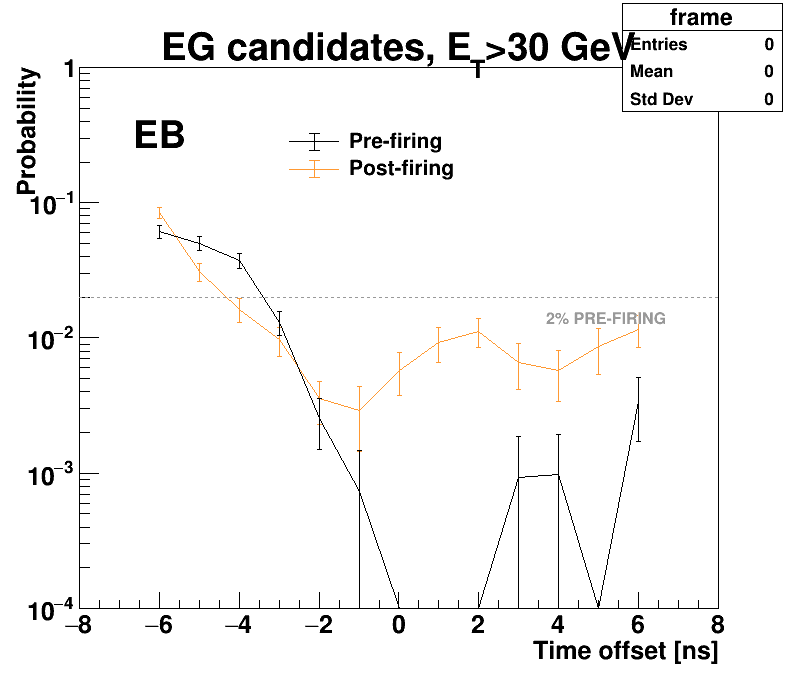
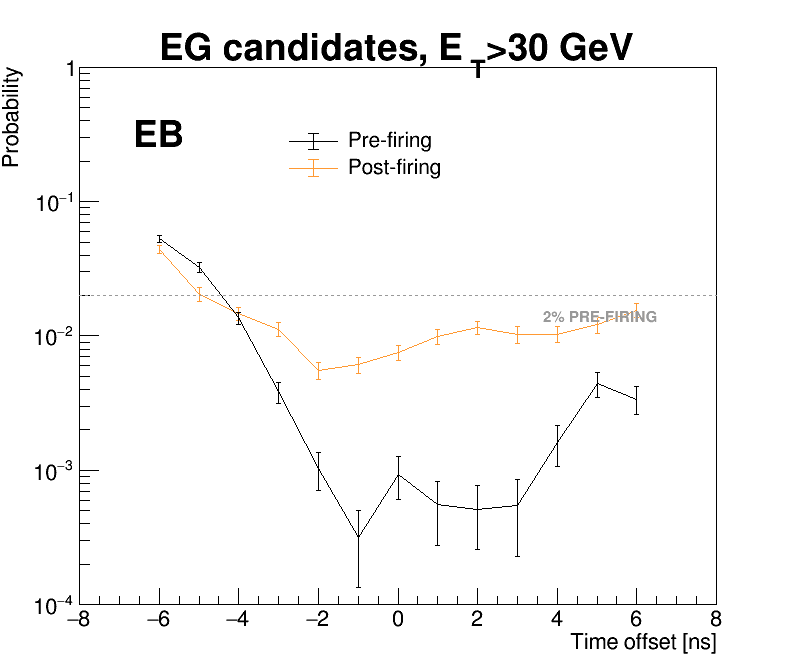
small fixes

diff --git a/ETTAnalyzer/Scan_files/FindScanFiles.py b/ETTAnalyzer/Scan_files/FindScanFiles.py
@@ -2,26 +2,26 @@ import os
 
 #Replace by importing a json?
 scan_delay = {              #run, first and last (included) LS
-    -6 : [366794, 0, 33],   #date: 29/04/23
-    -5 : [366794, 35, 63],
-    -4 : [366794, 66, 94],
-    -3 : [366794, 96, 125],
-    -2 : [366795, 0, 32],
-    -1 : [366795, 35, 62],
-    0 : [366795, 64, 97],
-    1 : [366797, 4, 32],
-    2 : [366797, 34, 68],
-    3 : [366798, 0, 25],
-    4 : [366798, 27, 52],
-    5 : [366798, 54, 75],
-    6 : [366798, 77, 111]
+    -6 : [369937, 51, 81],   #date: 29/04/23
+    -5 : [369937, 84, 105],
+    -4 : [369937, 107, 138],
+    -3 : [369937, 140, 171],
+    -2 : [369938, 1, 31],
+    -1 : [369938, 34, 66],
+    0 : [369938, 68, 99],
+    1 : [369938, 101, 125],
+    2 : [369938, 127, 153],
+    3 : [369942, 1, 21],
+    4 : [369942, 23, 42],
+    5 : [369942, 44, 64],
+    6 : [369942, 66, 86]
 }
 
-for i in range(-6, 7):
+for i in range(-6, -5):
     run, first_LS, last_LS = scan_delay[i]
     scan_file = 'Scan_delay_%s.txt'%(i)
     os.system('rm ' + scan_file)
     for ls in range(first_LS, last_LS + 1):
-        COMMAND = "dasgoclient --query='file dataset=/SpecialHLTPhysics0/Run2023B-v1/RAW run=%s lumi=%s' >> "%(run, ls) + scan_file
+        COMMAND = "dasgoclient --query='file dataset=/SpecialHLTPhysics0/Run2023D-v1/RAW run=%s lumi=%s' >> "%(run, ls) + scan_file
         os.system(COMMAND)
             

diff --git a/ETTAnalyzer/timingscan_prefire_23Sept2018_egamma_v2.C b/ETTAnalyzer/timingscan_prefire_23Sept2018_egamma_v2.C
@@ -259,7 +259,7 @@ void timingscan (char const *era, int thresh) {
 
   frame->SetXTitle("Time offset [ns]");
   frame->SetYTitle("Probability");
-  
+  frame->SetStats(0);
   frame->Draw();
   eg_eb_prefire->Draw("mlep");
 
